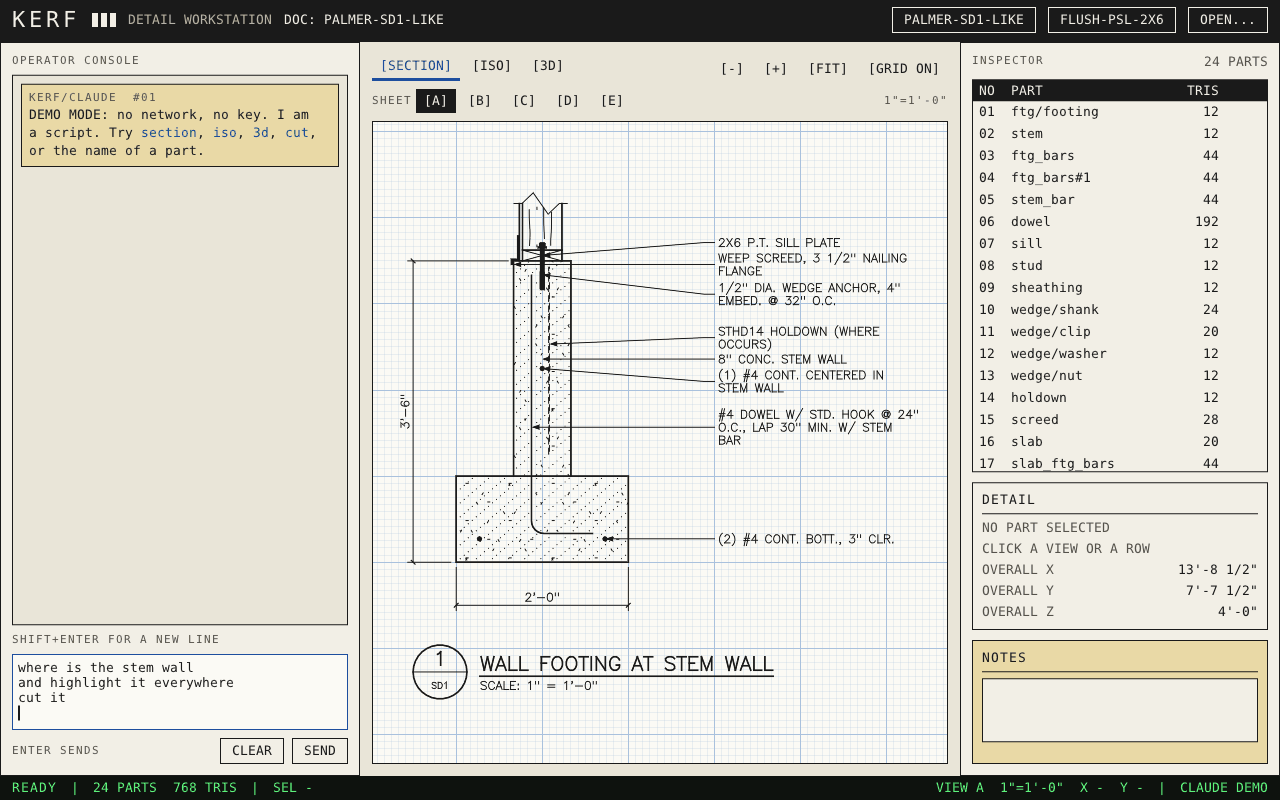
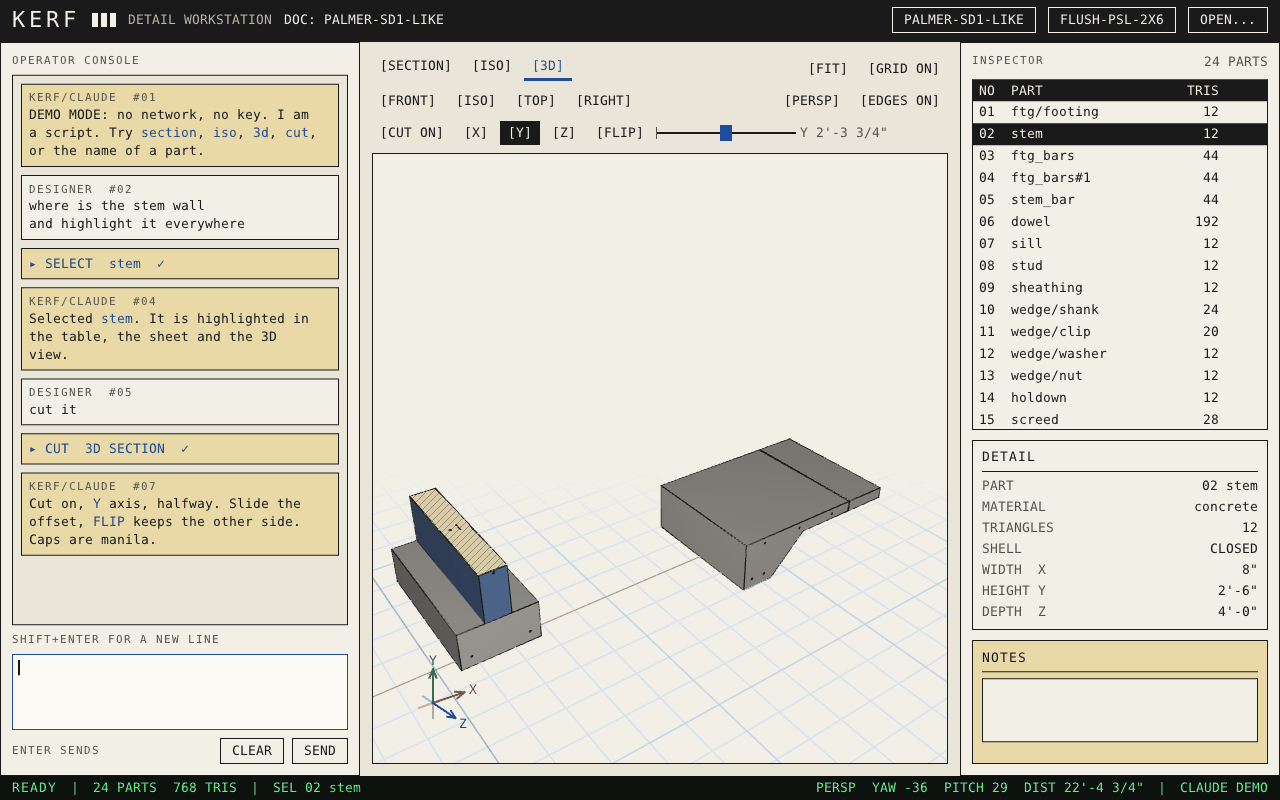
docs: showcase page, tools/showcase.sh, 29 compressed screenshots (1.3 MB)

diff --git a/docs/showcase.md b/docs/showcase.md
@@ -1,0 +1,99 @@
+# Showcase
+
+What Teak looks like today, rendered by the real examples. Every image is a headless wgpu shot (native) or a headless
+Chromium / WebGPU capture (web) driven by scripted input, so each one is also a layout + render + hit-routing check.
+Regenerate them with `tools/showcase.sh` (it builds `tools/qa`, runs the states in `tools/qa/scripts.zig`, and
+compresses to an adaptive 256-colour PNG; about 1.4 MB in total). Captions name the feature and the PR that landed it.
+
+## Kerf workstation (`examples/kerf_viewer`)
+
+![SECTION drawing](images/showcase/kerf-section.png)
+
+**SECTION**: a Kerf drawing tessellated into one triangle batch on an interactive canvas: vellum and blue grid, true pen
+weights, hatch, dashes, stroke font; selecting the stem in any view tints it here and highlights it in the parts table
+and the 3D view. Hover outlines the footing. (kerf dogfood #89, canvas triangles #14/#41, QA fixes #97-#106)
+
+![ISO drawing](images/showcase/kerf-iso.png)
+
+**ISO**: the same document's iso drawing (flush-psl-2x6), `beam` selected from the table; hover and select map drawing
+`src#instance` ids to mesh parts. (#89)
+
+![3D section cut](images/showcase/kerf-3d-cut.png)
+
+**3D with a section cut**: per-part items with highlight flags, ground grid, axis gizmo, stencil-parity cut with manila
+caps and hatch; open shells are outlined, not capped. (scene S3-S6: #24 #27 #34 #37, viewer #30)
+
+![Chat console](images/showcase/kerf-chat.png)
+
+**OPERATOR CONSOLE**: a multi-line `TextArea` (Enter sends, Shift+Enter newline), manila message cards with `**bold**`
+rich text, a scripted "Claude" (no network) whose tool lines drive the UI (select, cut), paced by a `Sub.every` that
+only exists while a reply is pending. (#89, TextArea #40, Enter fix #112)
+
+![scene_layers](images/showcase/scene-layers.png)
+
+**2.5D layers** (`examples/scene_layers`): drawing sheets as tilted planes with canvas content, billboard markers,
+depth sorting among 3D parts and labels over the scene. (#41)
+
+## Native and web side by side (left: native wgpu, right: Chromium WebGPU)
+
+![Kerf, native and web](images/showcase/pair-kerf.png)
+![Gallery, native and web](images/showcase/pair-gallery.png)
+![Chrome modern, native and web](images/showcase/pair-chrome-modern.png)
+![Tables, native and web](images/showcase/pair-tables.png)
+
+Same App code, same layout; the web build uses IBM Plex Mono, native uses the system / bundled face, so rows differ by
+a couple of pixels. (web backend, text atlas #28/#45, startup #82)
+
+## HiDPI
+
+![2x crop](images/showcase/hidpi-2x-crop.png)
+
+A 2x device-pixel crop of the SECTION view (no resampling): hairlines stay one logical pixel (two device pixels),
+text is rasterized at device size, the tessellated linework is antialiased with 1 px fringes. (HiDPI #33 #62)
+
+## Gallery (`examples/gallery`): every page in three looks
+
+Retro (DESIGN-style paper and ink), dark and light, all from `Theme` presets; the widgets are wave 1 (#52) plus tables
+at scale (#56, #73), text areas (#40) and the 3D / image resources hook. Gallery #59, light-look fixes #98 #102.
+
+| Retro | Dark | Light |
+|---|---|---|
+| ![](images/showcase/gallery-retro-controls.png) | ![](images/showcase/gallery-dark-controls.png) | ![](images/showcase/gallery-light-controls.png) |
+| Controls: buttons, toggle, checkbox / radio, sliders, rich text | Controls, dark | Controls, light (disabled states derived from the palette, #98) |
+| ![](images/showcase/gallery-retro-inputs.png) | | ![](images/showcase/gallery-light-inputs.png) |
+| Inputs: text field, underline field, NumericField, dropdown, searchable combobox, live TextArea | | Inputs, light |
+| ![](images/showcase/gallery-retro-data.png) | ![](images/showcase/gallery-dark-data.png) | ![](images/showcase/gallery-light-data.png) |
+| Data: fixed-column table, tree, 10k-row virtual list, canvas chart, scroll region | Data, dark | Data, light |
+| ![](images/showcase/gallery-retro-overlays.png) | ![](images/showcase/gallery-dark-overlays.png) | |
+| Overlays: tooltips, context menu, menu bar, toasts, dialogs | Overlays, dark | |
+| ![](images/showcase/gallery-retro-layout.png) | ![](images/showcase/gallery-dark-layout.png) | |
+| Layout: tabs, progress, draggable split pane | Layout, dark | |
+| ![](images/showcase/gallery-retro-scene.png) | | ![](images/showcase/gallery-light-scene.png) |
+| 3D and images: `viewport3d`, RGBA texture, resources hook | | 3D and images, light |
+
+## Chrome, tables, notes, todo
+
+![Chrome, modern look](images/showcase/chrome-modern.png)
+
+**Modern look**: `Theme.modern_light` (rounded SDF surfaces, soft shadows, token-derived styles, WCAG-AA text pairs) on the
+engineering-workstation shell, with a wrapped-text NOTES card and a sliding Quick Keys popover. (SDF #48, tokens #48,
+animation #43, wrap #35, contrast #98)
+
+![Chrome, retro look](images/showcase/chrome-retro.png)
+
+**Retro look** of the same App: one `themeFor` switch, a hand-built `Look`. (#48)
+
+![Tables, 100,000 rows](images/showcase/tables-100k.png)
+
+**100,000-row `DataTable`**: virtualized, sortable, resizable, selectable, sticky header, pixel-accurate ellipsis;
+only the visible rows are emitted. Scrolled deep into the data. (#56 #73, tab fixes #105)
+
+![Notes](images/showcase/notes.png)
+
+**Notes** (`examples/notes`): wrapping multi-line `TextArea` with a drag selection across wrapped lines, grapheme-aware
+caret (combining marks stay with their letter), chat box beside it. (#40, bidi #74 and HarfBuzz #77 add RTL and
+Indic shaping; the headless shot has no HarfBuzz build, so multi-script text is exercised by their own tests.)
+
+![Todo](images/showcase/todo.png)
+
+**Todo**: the dynamic-list basic: rows from `Model.items`, per-row `Msg`s; labels fixed by #100.

diff --git a/README.md b/README.md
@@ -69,6 +69,7 @@ Windows ARM64 hosts: the native aarch64-windows Zig 0.17 toolchain works with no
 ## Where to read next
 
 - [`docs/HARDLINE.md`](docs/HARDLINE.md) — the non-negotiable rules. Start here.
+- [`docs/showcase.md`](docs/showcase.md) — screenshots of the examples, native and web, retro / modern / dark / light, with the PR behind each feature.
 - [`docs/consuming-teak.md`](docs/consuming-teak.md) — **build an app**: `build.zig.zon` → `teak.run` in a few steps.
 - [`docs/cookbook.md`](docs/cookbook.md) — **add X to my app**: ~12 intent-oriented recipes (modal, dropdown, chart, golden test, second window, new widget…).
 - [`CLAUDE.md`](CLAUDE.md) — orientation for LLMs and new contributors.
